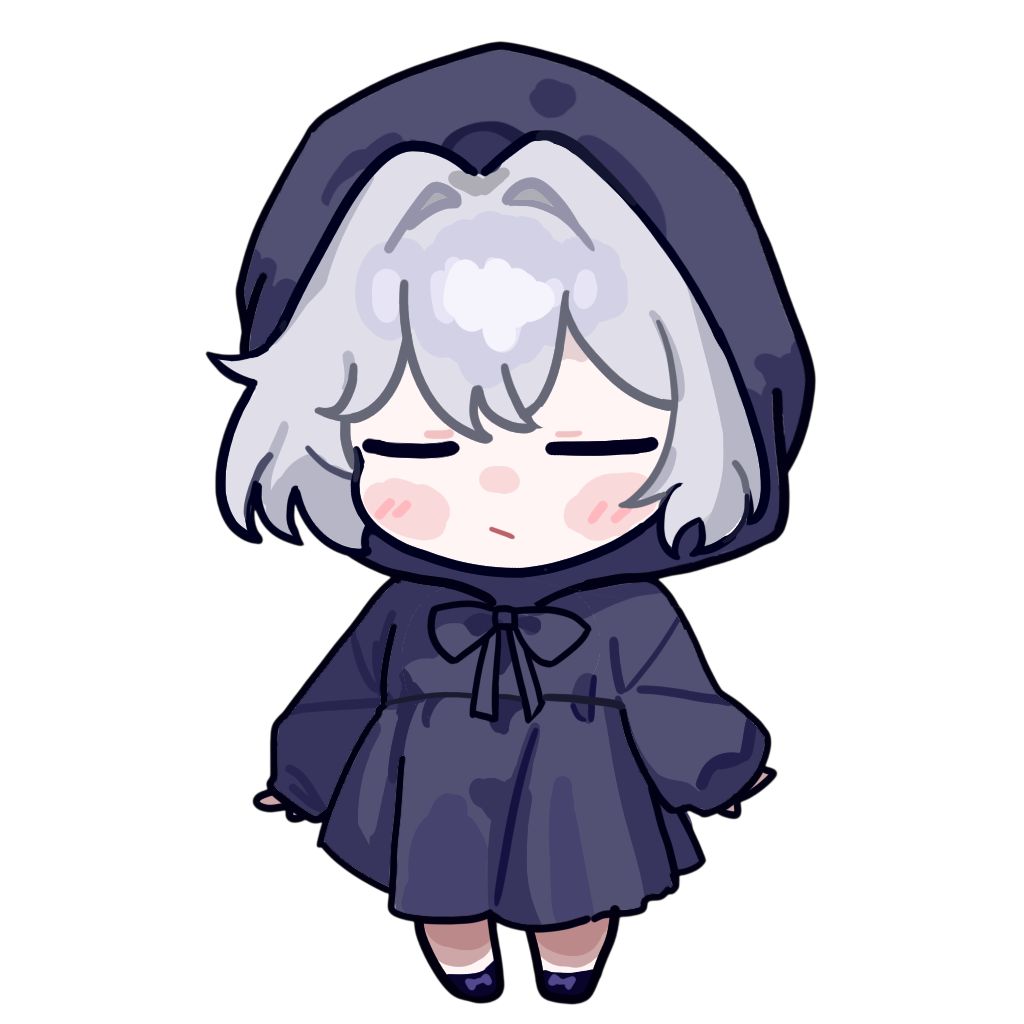
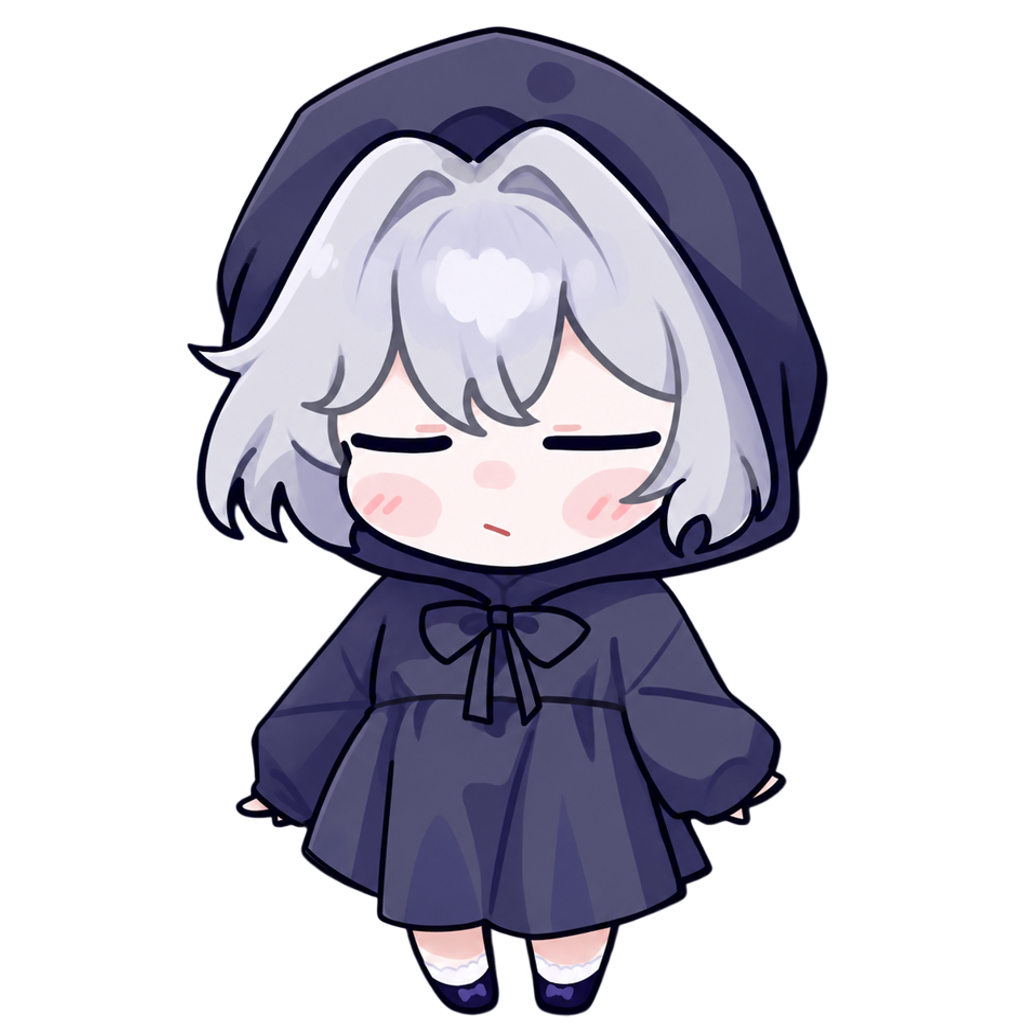
Refresh Nmoo artwork and add notice pose

Changed region(s): [[0.1875, 0.0, 0.8125, 1.0], [0.5625, 0.2188, 0.5938, 0.25]]

diff --git a/docs/companion-behavior-design.md b/docs/companion-behavior-design.md
@@ -213,7 +213,8 @@ Qt 없는 `BehaviorManager`가 발신자별 태그를 합쳐 조건을 만족하
 화면의 말풍선 부착점과 포인터 접촉 좌표도 같은 반전을 따른다. 프리뷰 타임라인은 원본 클립을 보여준다.
 추가 JSON 필드는 필요 없고 기존 팩도 그대로 사용한다. 걷기 바인딩이 없는 팩은 자동 이동하지 않는다.
 
-제공된 Nmoo 0.2 팩의 walk는 PNG 1→2→3→2, 각 140ms 반복이다.
+제공된 Nmoo 0.3 팩의 walk는 PNG 1→2→3→2, 각 140ms 반복이다.
+Idle·Walk 이미지를 교체했으며 `calling`과 `file.offer`는 종을 든 단일 notice 프레임에 연결한다.
 눈 깜빡임은 기존 standing 클립을 유지한다. 별도 내장 키 `builtin-nmoo`로 선택하며 가져온 이전 팩과 개인 설정은 덮어쓰지 않는다.
 컴패니언 관리의 '쉬는 동안 가끔 걷기'는 `character/autonomousWalk`에 저장한다(기본 true).
 창 위치 저장은 움직임을 즉시 반영하되 180ms 동안 모아 처리하고 종료 때 마지막 위치를 저장한다.
